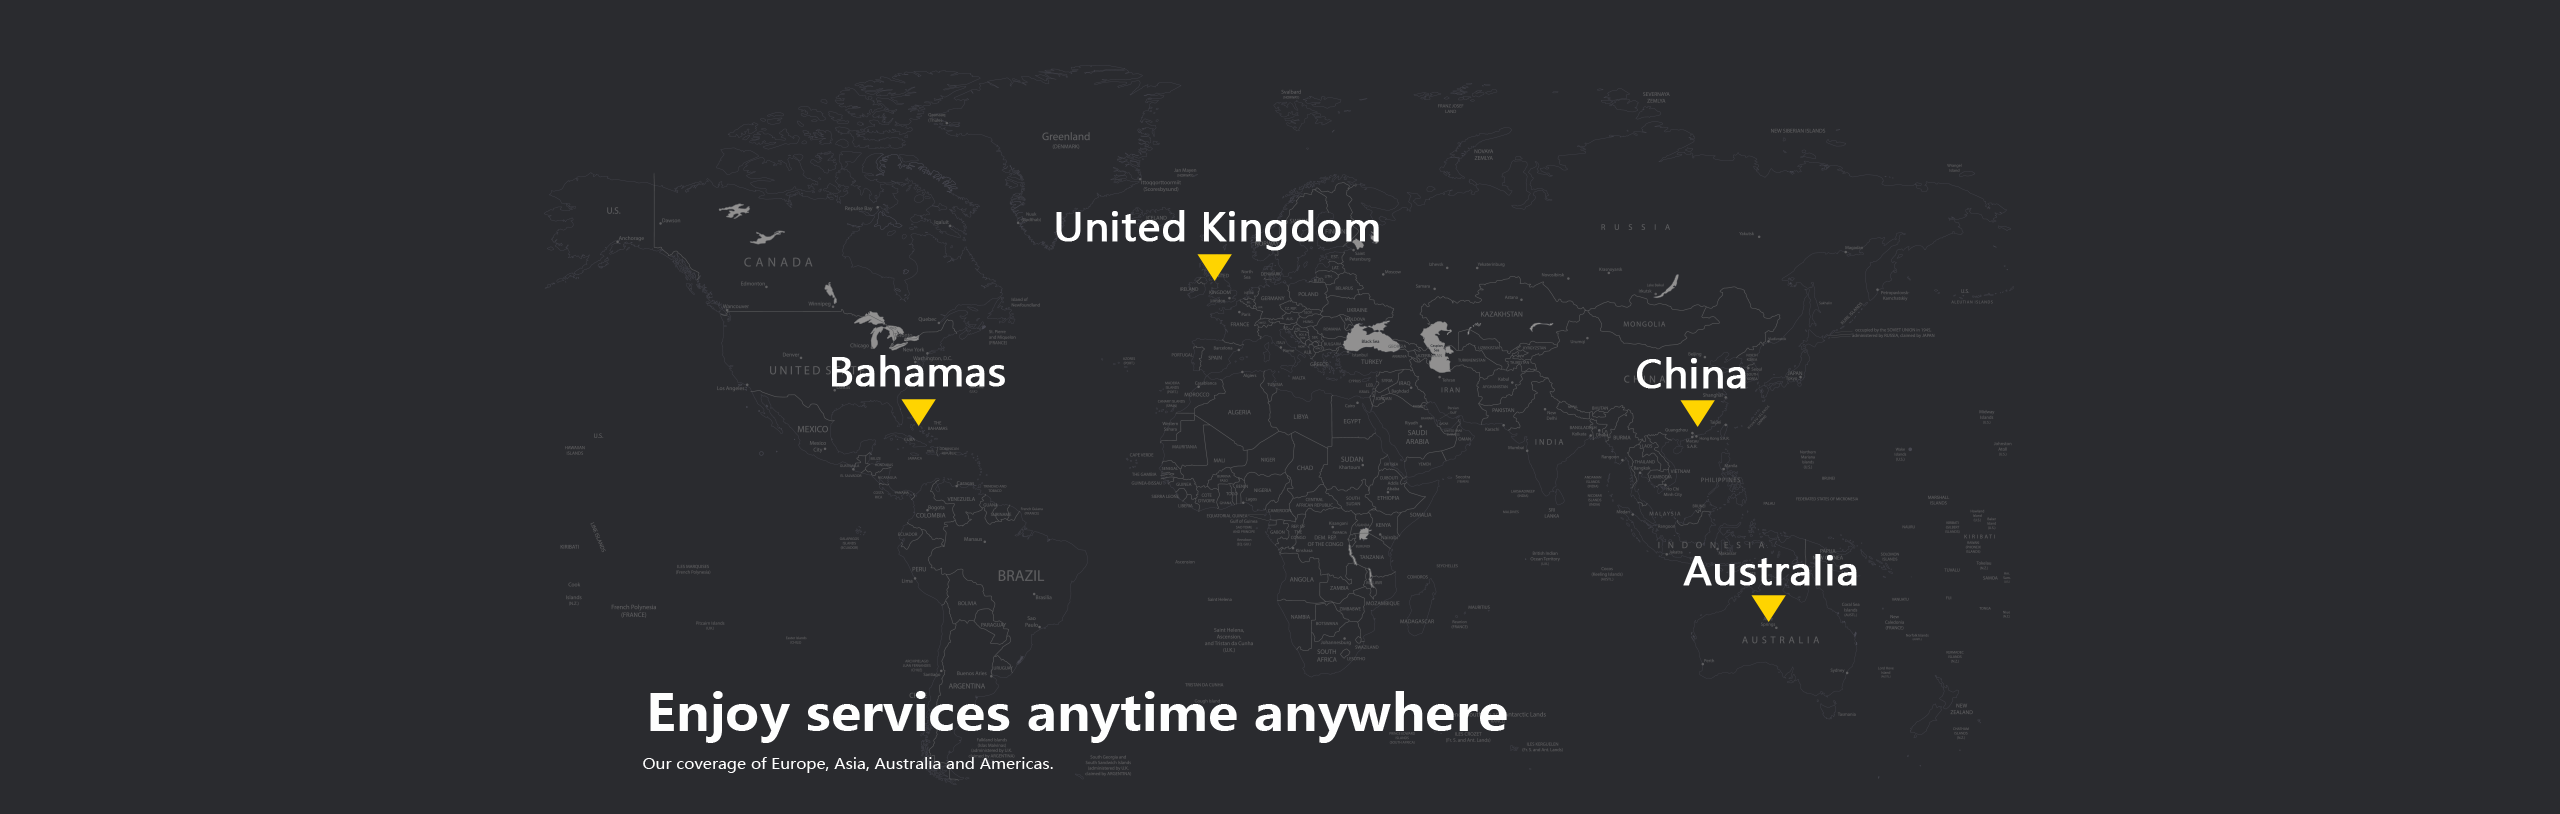
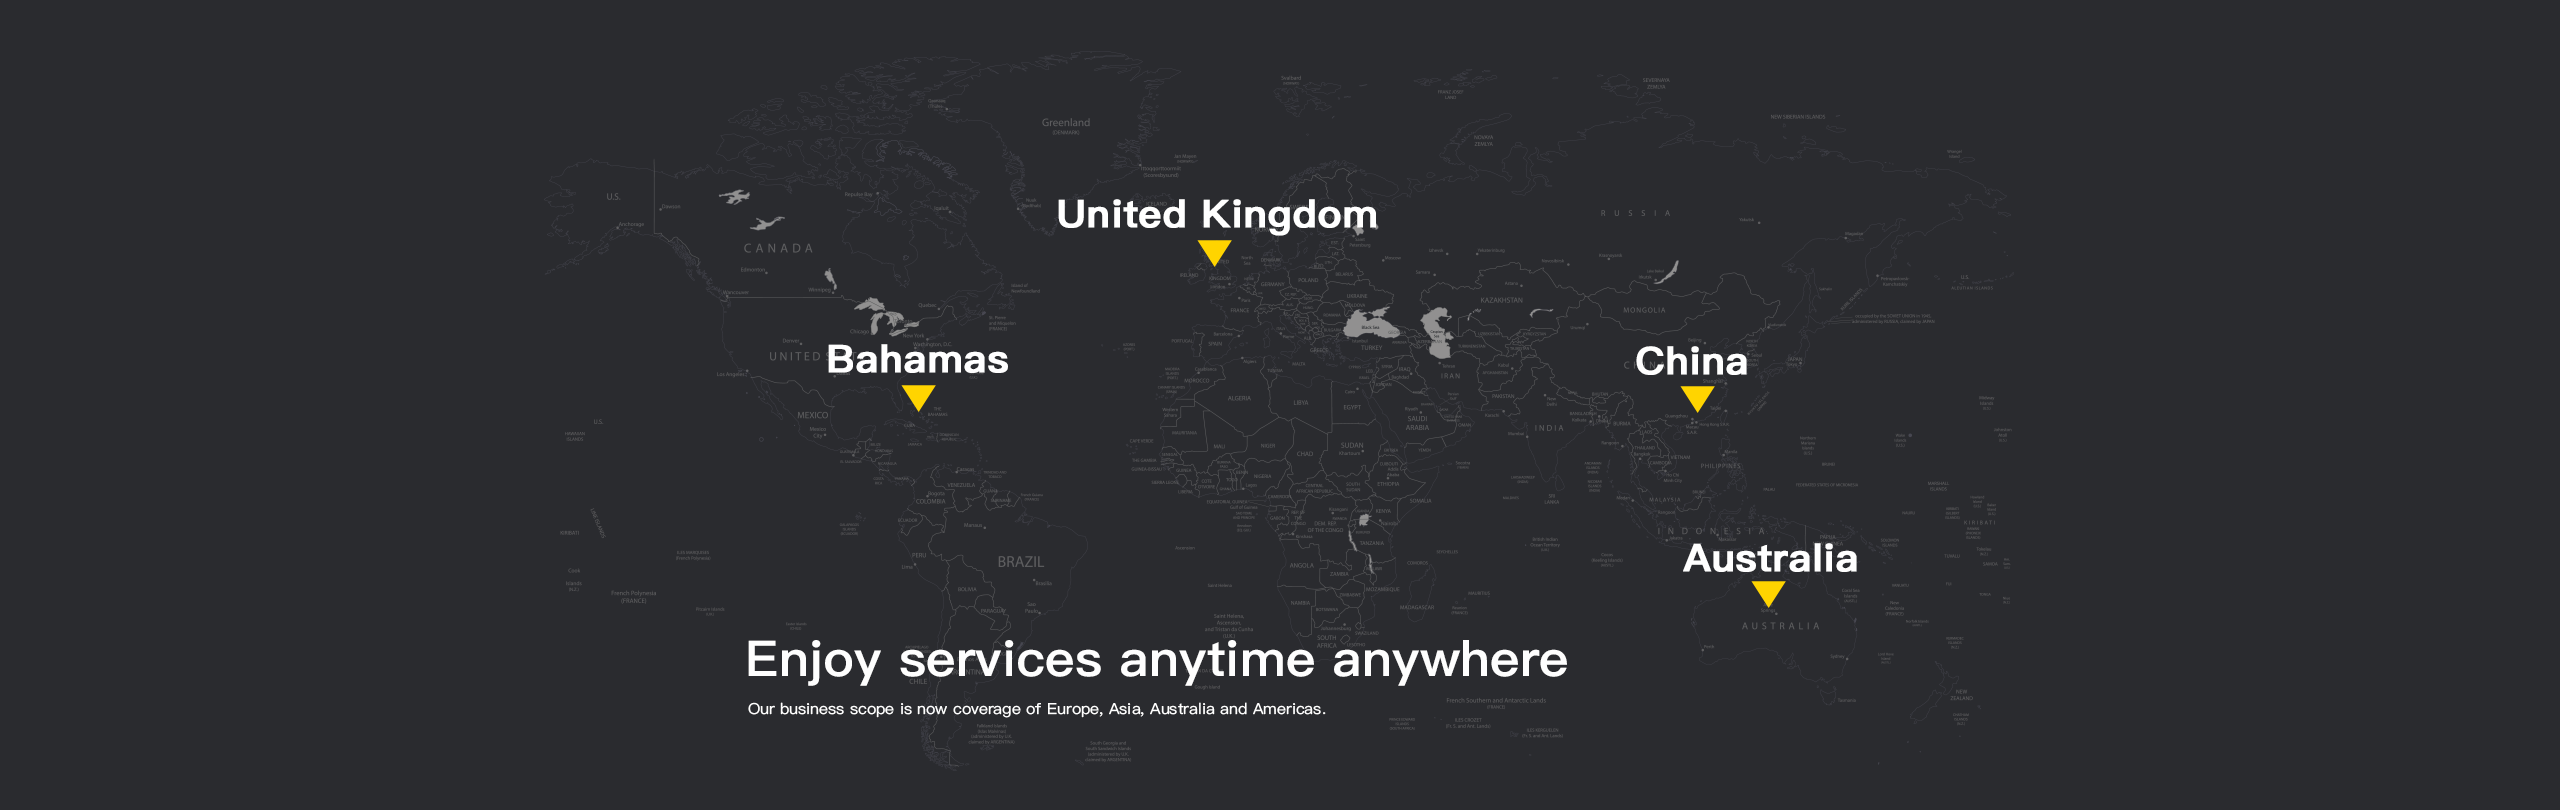
MOD

diff --git a/client/views/entry/index.html b/client/views/entry/index.html
@@ -44,7 +44,7 @@
                                                     TigerWit </br>
                                                     Makes Trading Easier
                                                 </h2>
-                                                <p class="title_tip">Follow Masters / Autonomous Trading / MDA Stratagy Trading</p>
+                                                <p class="title_tip">Follow Masters / Autonomous Trading / MDA Strategy Trading</p>
                                                 <div class="clearfix queto_block">
                                                     <ul class="index2-quote__content clearfix">
                                                         <li class="pro">
@@ -152,7 +152,7 @@
                                         </p>
                                         <p class="preview_content_detail">
                                             <span>Support and Training</span></br>
-                                            Share market knowledge, trading strategies and customer experience
+                                            Share market knowledges, trading strategies and customer experience.
                                         </p>
                                         <div class="entry_btn join_btn fr">Join Us</div>
                                     </div>
@@ -199,10 +199,10 @@
                                                         <span>Through the mobile Internet and the financial industry combination of the more adaptable operation plan.</span>
                                                     </p>
                                                     <p class="view_content_details">
-                                                        Through the mobile Internet and the financial industry combination of the more adaptable operation plan.
+                                                        Support and Training
                                                         <br>
                                                         <span>
-                                                            Share market knowledge, trading strategies and customer experience.
+                                                            Share market knowledges, trading strategies and customer experience.
                                                         </span>
                                                     </p>
                                                     <a class="entry_btn join_btn2 fl btn_IB" href="https://global.tigerwit.com/bd/brand_proxy">Join Us</a>
@@ -266,13 +266,13 @@
                                                 <p class="view_content_details">
                                                     Over millions of orders processing experience
                                                     <br>
-                                                    Support follow trading symbol trading on either mobile and web platform
+                                                    Support follow trading and independent trading on either mobile and web platform
                                                 </p>
                                                 <p class="view_content_title">
                                                     Our goal
                                                 </p>
                                                 <p class="view_content_details">
-                                                    Based on blockchain infrastructure, TigerWit provide you transparent transaction and quote
+                                                    Based on block chain infrastructure, TigerWit provide you transparent transaction and real time quotes
                                                     <br>
                                                     Build efficient solutions to increase transaction speed
                                                 </p>

diff --git a/client/styles/entry/index.scss b/client/styles/entry/index.scss
@@ -294,9 +294,10 @@
     }
     .entry_map {
         height: 830px;
+        background-color: rgb(42,43,47);
         background-image: url('/images/entry/map.png');
         background-size: auto 100%;
-        background-position: center;
+        background-position: center center;
     }
     .entry_footer {
         background: #1b1b1b;

diff --git a/client/scripts/entry/queto.js b/client/scripts/entry/queto.js
@@ -2,7 +2,6 @@
 (function () {
     'use strict';
     angular.module('TigerEntry', []);
-
     angular.module('TigerEntry').controller('EntryIndexController', EntryIndexController);
     EntryIndexController.$inject = ['$scope', '$location', '$timeout', '$http'];
     function EntryIndexController($scope, $location, $timeout, $http) {
